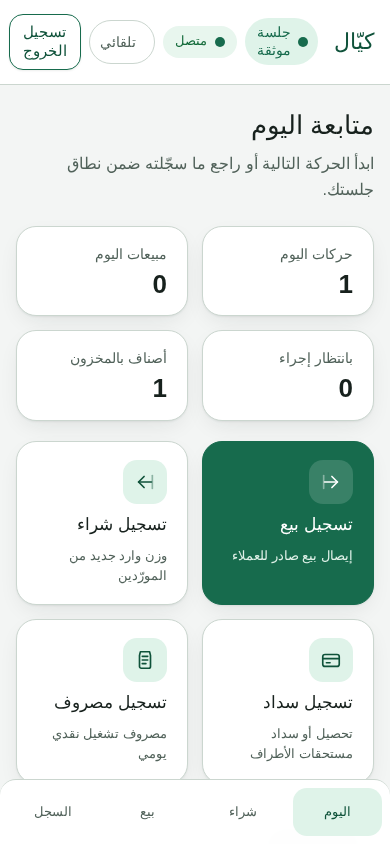
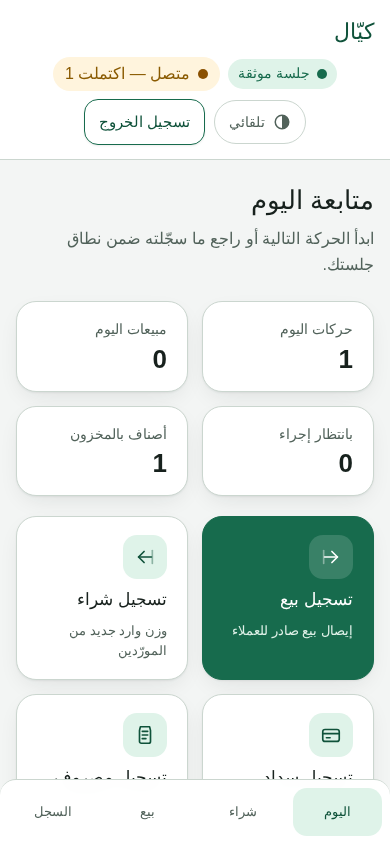
fix(ui): التفاف صف الجلسة المحمول + ومضة إقرار مرئية ٤ث + حارس نسخ عشري صارم + C3 ذو الوجهين الشرعيين — 8/8 متصفح

diff --git a/src/ui/components/ConnectionChip.tsx b/src/ui/components/ConnectionChip.tsx
@@ -3,7 +3,7 @@
 import { useEffect, useState } from 'react';
 
 import { ar } from '../copy/ar';
-import { statusCounts, storeDurability, storeProblemMessage, subscribeOutbox, type StatusCounts } from '../offline/outbox';
+import { markAcksSeen, statusCounts, storeDurability, storeProblemMessage, subscribeOutbox, type StatusCounts } from '../offline/outbox';
 
 const EMPTY: StatusCounts = { queued: 0, syncing: 0, parked: 0, conflict: 0, ackPending: 0, drafts: 0 };
 
@@ -42,6 +42,13 @@ export function ConnectionChip({ scope, onOpenOutbox }: { readonly scope: string
     const timer = window.setInterval(() => { void refresh(); }, 5_000);
     return () => { cancelled = true; unsubscribe(); window.clearInterval(timer); };
   }, [scope]);
+
+  // الإقرار يبقى مرئيًا بضع ثوانِ (قراءة إنسانية حقيقية) قبل أن يانكمش إلى «متصل»:
+  useEffect(() => {
+    if (!scope || counts.ackPending === 0) return;
+    const timer = window.setTimeout(() => { void markAcksSeen(scope); }, 4_000);
+    return () => window.clearTimeout(timer);
+  }, [scope, counts.ackPending]);
 
   const unresolved = counts.queued + counts.syncing + counts.parked + counts.conflict;
   const headline = problem

diff --git a/src/app/globals.css b/src/app/globals.css
@@ -339,3 +339,12 @@
 .outbox-panel__item-meta { color: var(--color-text-muted, #64748b); font-size: 0.75rem; }
 .outbox-panel__empty { color: var(--color-text-muted, #475569); }
 .connection-chip--button { border: 0; cursor: pointer; font: inherit; }
+
+/* ADR-0016: الرقاقة الصادقة تطول — الترويسة المحمولة تلتف بدل تجاوز العرض */
+.app-shell__mobile-header{flex-wrap:wrap;gap:.5rem;justify-content:flex-start}
+
+/* ADR-0016: سقف عرض الرقاقة — الالتفاف العام يبقى، لكن الرقاقة نفسها لا تعادل الصفحة */
+.connection-chip{max-inline-size:100%}
+.connection-chip__label{max-inline-size:9rem;overflow:hidden;text-overflow:ellipsis;white-space:nowrap}
+/* ADR-0016: عنق الرقاقة الصادقة في صف الجلسة المحمول — يلتف بدل تجاوز العرض */
+.app-shell__mobile-session{flex-wrap:wrap;justify-content:center}

diff --git a/src/ui/offline/outbox.ts b/src/ui/offline/outbox.ts
@@ -128,6 +128,16 @@ export interface StatusCounts {
   readonly drafts: number;
 }
 
+/** الرقاقة عرضت الإقرار: وسم مقروء — السجل نفسه يبقى حتى يطرده المستخدم بيده. */
+export async function markAcksSeen(scope: string): Promise<void> {
+  const ops = await offlineStore().listOps(scope);
+  for (const op of ops) {
+    if (op.status === 'acknowledged' && op.ack && !op.ack.seenByUser) {
+      await persistPatch(op.queueId, { ack: { ...op.ack, seenByUser: true } });
+    }
+  }
+}
+
 /** عدّاد اللوحة الصادقة: صفر «غير محسومة» لا يُظهر إلا بعد تصفية النزاعات أيضًا. */
 export async function statusCounts(scope: string): Promise<StatusCounts> {
   const ops = await offlineStore().listOps(scope);
